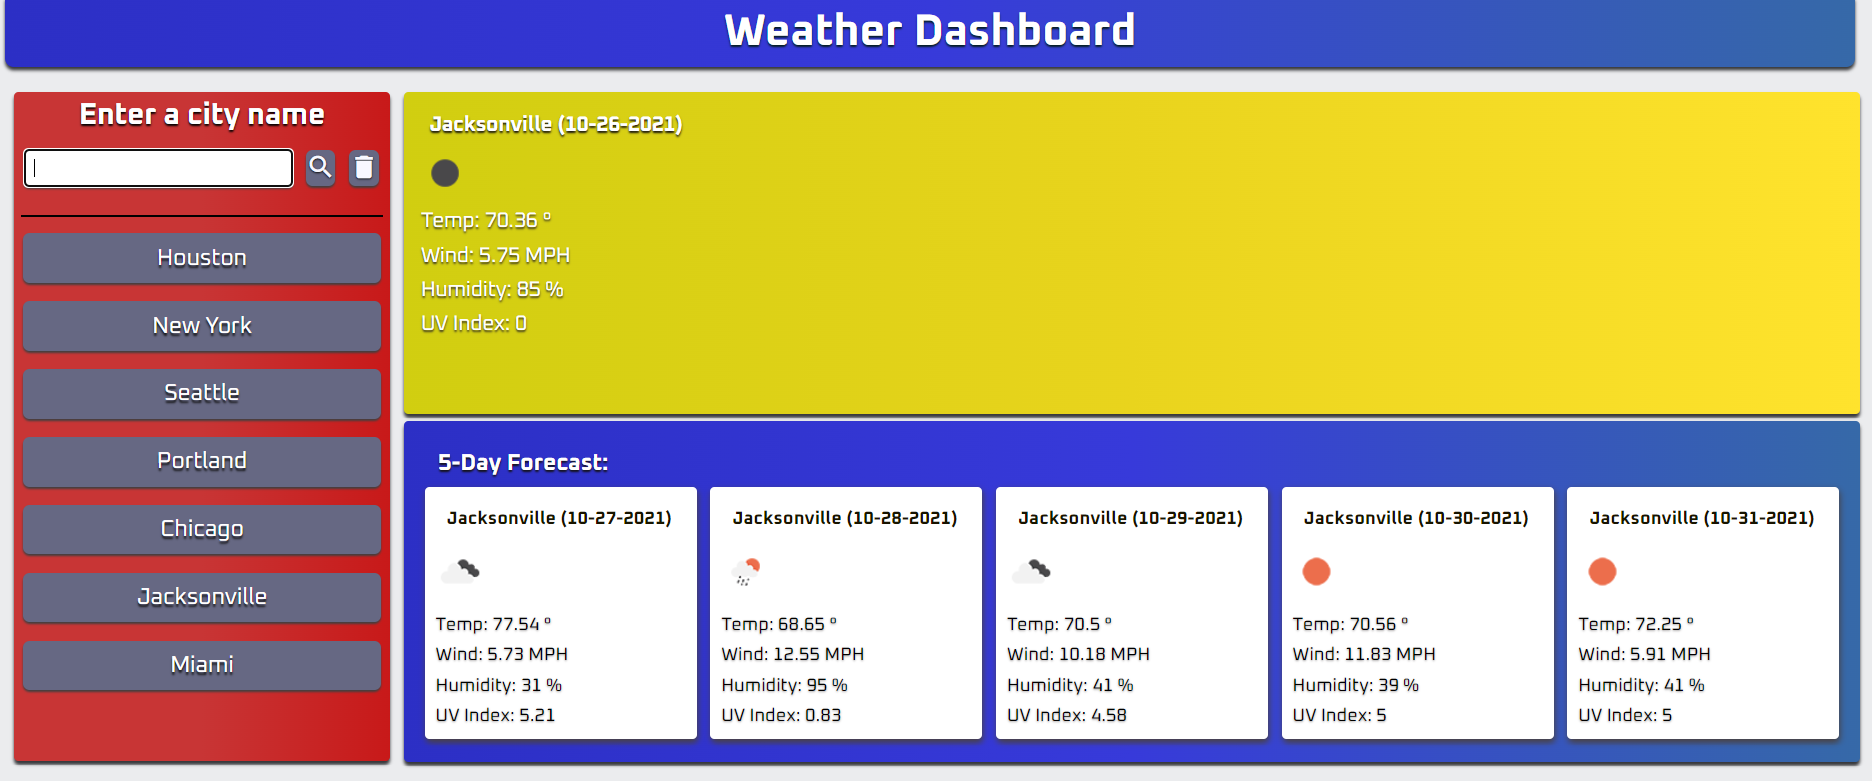
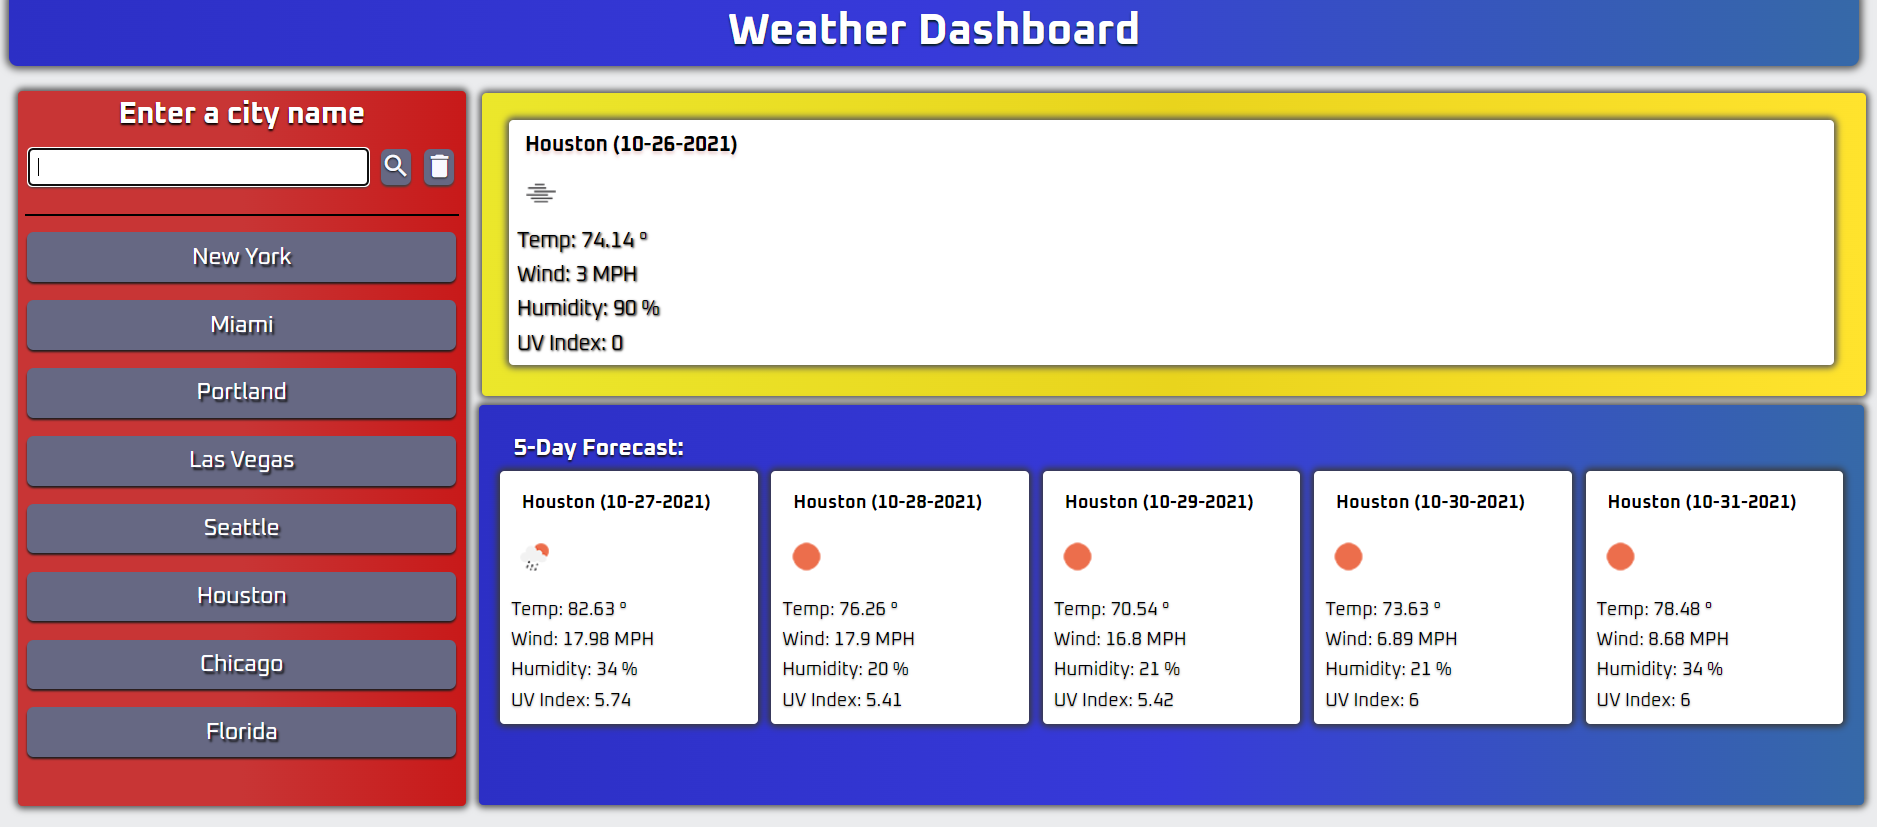
minor style changes and preview image updated

diff --git a/assets/css/style.css b/assets/css/style.css
@@ -7,7 +7,7 @@ body {
     align-content: flex-start;
     --ox: "Oxanium";
     --samgrad: rgb(49, 45, 233) linear-gradient(90deg, rgb(44, 47, 197) 0%, rgb(55, 58, 218) 50%, rgb(54, 105, 168) 100%);
-    --samcurrent: rgb(204, 184, 2) linear-gradient(90deg, rgb(209, 206, 16) 0%, rgb(233, 212, 29) 50%, rgb(255, 227, 45) 100%);
+    --samcurrent: rgb(247, 227, 48) linear-gradient(90deg, rgb(235, 231, 43) 0%, rgb(233, 212, 29) 50%, rgb(255, 227, 45) 100%);
     --samhistory: rgb(200, 25, 25) linear-gradient(90deg, rgb(200, 53, 53) 0%, rgb(200, 53, 53) 50%, rgb(200, 25, 25) 100%);
     font-family: var(--ox);
     line-height: 1;
@@ -25,7 +25,7 @@ header {
     background: var(--samgrad);
     border-bottom-right-radius: 8px;
     border-bottom-left-radius: 8px;
-    box-shadow: rgb(54, 55, 58) 0px 3px 3px;
+    box-shadow: rgb(88, 88, 88) 0px 0px 7px 3px;
     margin-bottom: 1em;
     text-shadow: rgb(0, 0, 0) 5px 6px 2px;
     justify-self: center;
@@ -66,6 +66,7 @@ aside {
 }
 
 section {
+    
     font-size: 1.3em;
     width: 100%;
     color: white;
@@ -120,7 +121,7 @@ button {
     display: grid;
     grid-auto-rows: .00001fr;
     background: var(--samhistory);
-    box-shadow: rgb(54, 55, 58) 0px 3px 3px;
+    box-shadow: rgb(88, 88, 88) 0px 0px 6px 3px;
     border-radius: 4px;
     margin: .3em;
     height: 98%;
@@ -132,51 +133,55 @@ button {
     margin: .4em;
     padding: .1em;
     font-size: 1em;
-    text-shadow: rgb(17, 17, 17) 0px 3px 2px;
+    text-shadow: rgb(17, 17, 17) 2px 3px 2px;
     color: rgb(255, 255, 255);
     text-transform: capitalize;
     border: none;
-    box-shadow: rgb(65, 63, 63) 0px 2px 2px;
+    box-shadow: rgb(29, 28, 28) 0px 2px 2px;
 }
 
 .currentWeather {
-    margin: .3em;
-    padding: .2em;
+    margin: .4em;
+    padding: 1em;
     border-radius: 4px;
-    height: 50%;
+    height: 44%;
     width: 100%;
     background: var(--samcurrent);
-    box-shadow: rgb(54, 55, 58) 0px 3px 3px;
+    box-shadow: rgb(88, 88, 88) 0px 0px 7px 3px;
     white-space: nowrap;
-  overflow: hidden;
+    overflow: hidden;
+
 }
 
 h3 {
-    color: white;
-    text-shadow: rgb(126, 128, 128) 0px 1px 2px;
+    color: rgb(0, 0, 0);
+    text-shadow: rgb(235, 209, 209) 0px 3px 3px;
     line-height: .8em;
     padding: .3em;
     margin: .3em;
-    text-shadow: rgb(19, 16, 14) 0px 2px 2px;
+    
 }
 
 .forecast {
     margin: .3em;
     padding: .9em;
     border-radius: 4px;
-    height: 53%;
+    height: 58%;
     width: 100%;
     background: var(--samgrad);
-    box-shadow: rgb(54, 55, 58) 0px 3px 3px;
+    box-shadow: rgb(88, 88, 88) 0px 0px 7px 3px;
 }
 
 .currentCard {
-    color: rgb(255, 255, 255);
+    color: rgb(0, 0, 0);
     padding: .2em;
     margin: .2em;
-    text-shadow: rgb(44, 39, 33) 0px 2px 2px;
-    width: 100%;
+    text-shadow: rgb(24, 22, 19)1px 1px 2px;
+    width: 99%;
     font-size: .9em;
+    box-shadow: rgb(88, 88, 88) 0px 0px 7px 3px;
+    border-radius: 4px;
+    background-color: white;
 }
 
 .forecastCard {
@@ -187,9 +192,10 @@ h3 {
     color: rgb(0, 0, 0);
     font-size: .8em;
     text-align: left;
-    box-shadow: rgb(73, 65, 65) 1px 3px 6px;
+    box-shadow: rgb(58, 58, 58) 0px 0px 7px 3px;
     border-radius: 4px;
     background-color: white;
+    
 
 }
 
@@ -197,11 +203,15 @@ h3 {
     white-space: nowrap;
     overflow: hidden;
     text-shadow: none;
-    color: rgb(24, 20, 0);
+    color: rgb(0, 0, 0);
     padding: .5em;
     line-height: 1.2em;
 }
 
+.fiveDay {
+    color:white;
+    text-shadow: rgb(19, 16, 14) 0px 2px 2px;
+}
 
 li {
     padding: .2em;
@@ -231,3 +241,18 @@ li {
 }
 
 
+.searchHistory:hover{
+    background-color: rgb(81, 81, 167);
+    
+}
+.searchHistory:active{
+    background-color: rgb(206, 206, 223);
+    
+}
+
+button:hover{
+    background-color: rgb(81, 81, 167);
+}
+button:active{
+    background-color: rgb(206, 206, 223);
+}
